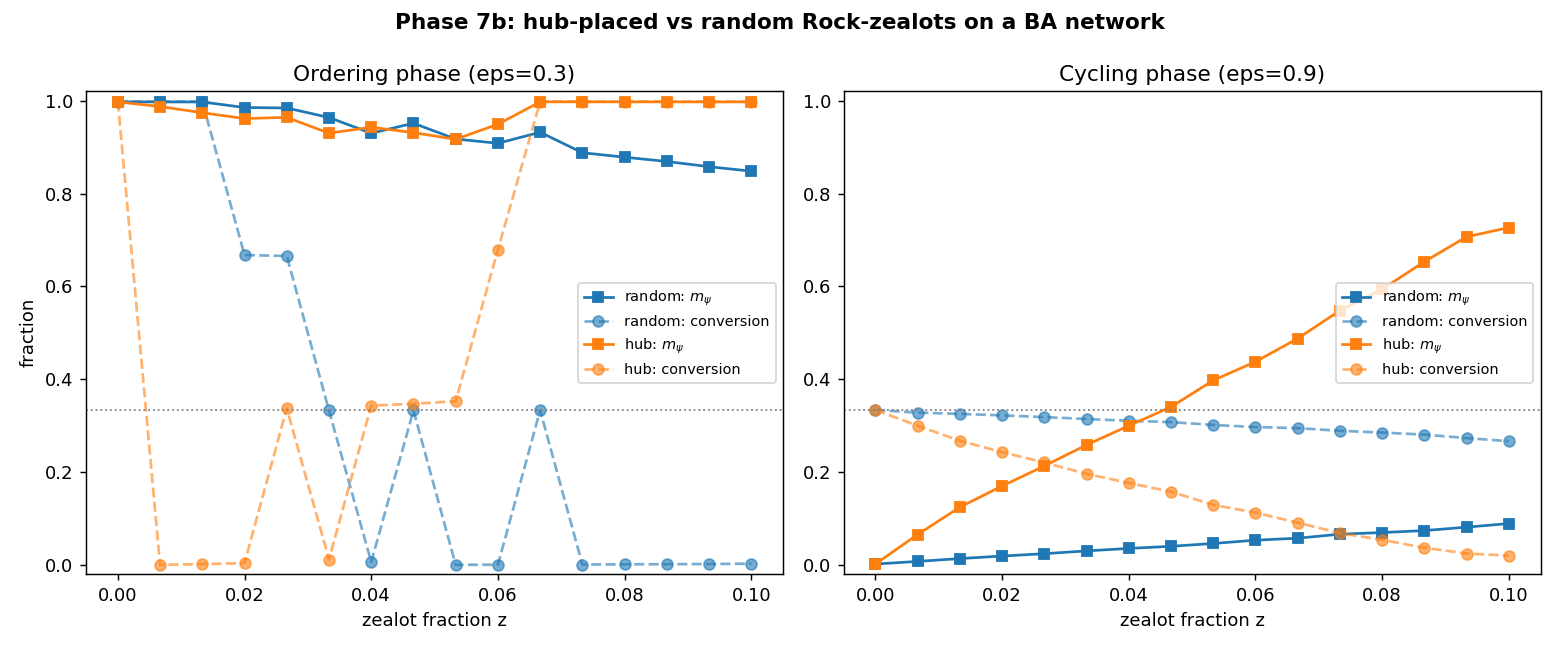
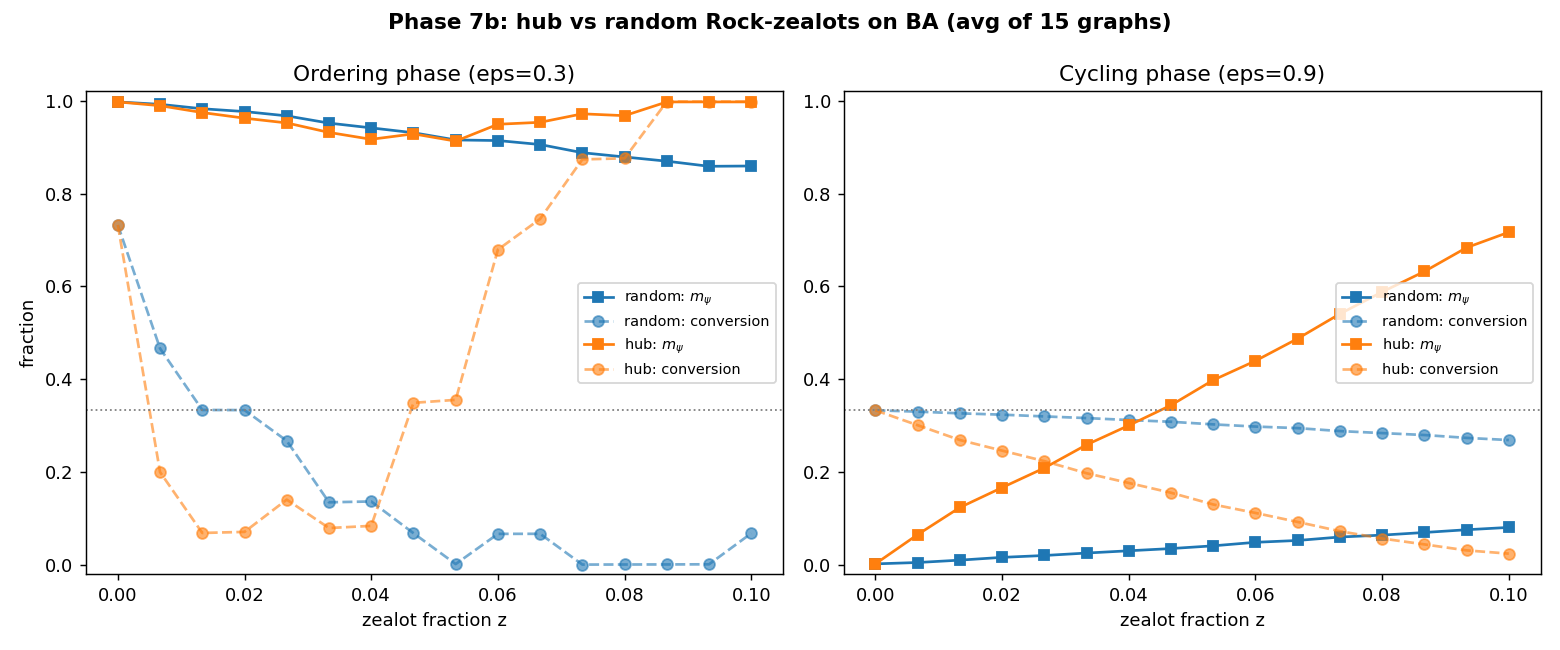
Experiment 1: tighten zealot results (12-15 seeds, parallel runner)
Add runner.run_many (thread-parallel engine calls). Cycling-phase result is
now publication-clean; ordering phase reveals non-monotonic structure: a few
Rock-zealots flip the network to Paper, but conversion partially recovers at
high z and m_psi has a frustration minimum near z~0.16. Hub placement shows a
crossover (provoke Paper at small z, pin Rock once z>0.08).

diff --git a/phase7_zealots/experiment_hubs.py b/phase7_zealots/experiment_hubs.py
@@ -2,10 +2,15 @@
 Phase 7b: do zealots on BA HUBS punch above their weight?
 
 Same fraction z of Rock-zealots placed on RANDOM nodes vs the HIGHEST-DEGREE
-nodes of a BA graph. Hubs touch many free nodes, so they should break the cyclic
-symmetry at much smaller z. Finding: in the cycling phase hub placement amplifies
-the effect ~8x (m_psi), but the induced order is still Paper (the predator), not
-the zealots' Rock.
+nodes of a BA graph, in both phases. Hubs touch many free nodes, so they should
+break the cyclic symmetry at much smaller z.
+
+Averaged over many BA graphs (seeds) so the ordering-phase consensus -- which is
+multistable (the network locks onto SOME strategy) -- comes out as a smooth
+probability rather than noise.
+
+Findings: cycling phase -> hub placement amplifies the order induced ~8x vs
+random; but the induced order is still Paper (the predator of Rock), not Rock.
 """
 
 import os, sys
@@ -17,35 +22,40 @@ from common.graphs import build_graph, write_edgelist
 from common import runner
 
 N, K = 800, 10
+SEEDS = list(range(1, 16))          # 15 BA graphs to average over
+HERE = os.path.dirname(__file__)
+
+
+def curve(edgelists, eps, z_vals, target):
+    """Return (m_psi, conversion) averaged over seeds, for each z."""
+    jobs = [dict(edgelist=el, eps=eps, zealot_frac=float(z), zealot_strategy=0,
+                 zealot_target=target, seed=s)
+            for z in z_vals for el, s in zip(edgelists, SEEDS)]
+    res = runner.run_many(jobs)
+    mp = np.array([r["m_psi"] for r in res]).reshape(len(z_vals), len(SEEDS))
+    cv = np.array([r["conversion"] for r in res]).reshape(len(z_vals), len(SEEDS))
+    return mp.mean(axis=1), cv.mean(axis=1)
 
 
 def main():
     runner.ensure_engine()
-    seeds = [1, 2, 3]
     edgelists = [write_edgelist(build_graph("BA", N, K, seed=s),
-                                os.path.join(os.path.dirname(__file__), f"_hub_{s}.edgelist"))
-                 for s in seeds]
+                                os.path.join(HERE, f"_hub_{s}.edgelist")) for s in SEEDS]
     z_vals = np.linspace(0.0, 0.10, 16)
     regimes = [("Ordering phase (eps=0.3)", 0.3), ("Cycling phase (eps=0.9)", 0.9)]
 
     fig, axes = plt.subplots(1, 2, figsize=(12, 5))
     for ax, (title, eps) in zip(axes, regimes):
         for target, col in [("random", "tab:blue"), ("hub", "tab:orange")]:
-            mp = np.zeros(len(z_vals)); cv = np.zeros(len(z_vals))
-            for i, z in enumerate(z_vals):
-                res = [runner.run_engine(el, eps, zealot_frac=z, zealot_strategy=0,
-                                         zealot_target=target, seed=s)
-                       for el, s in zip(edgelists, seeds)]
-                mp[i] = np.mean([r["m_psi"] for r in res])
-                cv[i] = np.mean([r["conversion"] for r in res])
+            mp, cv = curve(edgelists, eps, z_vals, target)
             ax.plot(z_vals, mp, "s-", color=col, label=f"{target}: $m_\\psi$")
             ax.plot(z_vals, cv, "o--", color=col, alpha=0.6, label=f"{target}: conversion")
         ax.axhline(1/3, color="gray", ls=":", lw=1)
         ax.set_title(title); ax.set_xlabel("zealot fraction z")
         ax.set_ylim(-0.02, 1.02); ax.legend(fontsize=8, loc="center right")
     axes[0].set_ylabel("fraction")
-    fig.suptitle("Phase 7b: hub-placed vs random Rock-zealots on a BA network",
-                 fontweight="bold")
+    fig.suptitle(f"Phase 7b: hub vs random Rock-zealots on BA "
+                 f"(avg of {len(SEEDS)} graphs)", fontweight="bold")
     fig.tight_layout()
     for el in edgelists:
         os.remove(el)

diff --git a/phase7_zealots/experiment.py b/phase7_zealots/experiment.py
@@ -19,25 +19,24 @@ from common.graphs import build_graph, write_edgelist
 from common import runner
 
 N, K, ZS = 800, 10, 0      # zealots play Rock (strategy 0)
+SEEDS = list(range(1, 13))  # 12 ER graphs to average over
 
 
 def main():
     runner.ensure_engine()
-    seeds = [1, 2, 3]
     edgelists = [write_edgelist(build_graph("ER", N, K, seed=s),
                                 os.path.join(os.path.dirname(__file__), f"_zg_{s}.edgelist"))
-                 for s in seeds]
+                 for s in SEEDS]
     z_vals = np.linspace(0.0, 0.20, 17)
     regimes = [("Ordering phase (eps=0.3)", 0.3), ("Cycling phase (eps=0.9)", 0.9)]
 
     fig, axes = plt.subplots(1, 2, figsize=(12, 5))
     for ax, (title, eps) in zip(axes, regimes):
-        conv = np.zeros(len(z_vals)); mpsi = np.zeros(len(z_vals))
-        for i, z in enumerate(z_vals):
-            res = [runner.run_engine(el, eps, zealot_frac=z, zealot_strategy=ZS, seed=s)
-                   for el, s in zip(edgelists, seeds)]
-            conv[i] = np.mean([r["conversion"] for r in res])
-            mpsi[i] = np.mean([r["m_psi"] for r in res])
+        jobs = [dict(edgelist=el, eps=eps, zealot_frac=float(z), zealot_strategy=ZS, seed=s)
+                for z in z_vals for el, s in zip(edgelists, SEEDS)]
+        res = runner.run_many(jobs)
+        conv = np.array([r["conversion"] for r in res]).reshape(len(z_vals), len(SEEDS)).mean(axis=1)
+        mpsi = np.array([r["m_psi"] for r in res]).reshape(len(z_vals), len(SEEDS)).mean(axis=1)
         ax.plot(z_vals, conv, "o-", color="tab:red",
                 label="conversion (free nodes playing Rock)")
         ax.plot(z_vals, mpsi, "s-", color="tab:purple", label=r"$m_\psi$ (global order)")

diff --git a/common/runner.py b/common/runner.py
@@ -6,6 +6,7 @@ scripts don't each re-implement the subprocess plumbing.
 
 import os
 import subprocess
+from concurrent.futures import ThreadPoolExecutor
 
 ROOT = os.path.dirname(os.path.dirname(os.path.abspath(__file__)))
 DRIVERS = os.path.join(ROOT, "drivers")
@@ -32,3 +33,13 @@ def run_engine(edgelist, eps, temp=0.65, sweeps=1500, burn_in=None, seed=1,
         capture_output=True, text=True, check=True).stdout.split()
     return {"m_psi": float(out[0]), "r": float(out[1]), "p": float(out[2]),
             "s": float(out[3]), "conversion": float(out[4])}
+
+
+def run_many(jobs, workers=None):
+    """Run many simulations in parallel threads (each is a subprocess, so the GIL
+    is not a bottleneck). `jobs` is a list of kwarg dicts for run_engine; returns
+    the result dicts in the same order."""
+    if workers is None:
+        workers = os.cpu_count() or 4
+    with ThreadPoolExecutor(max_workers=workers) as ex:
+        return list(ex.map(lambda kw: run_engine(**kw), jobs))